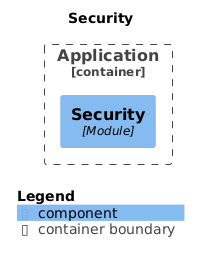
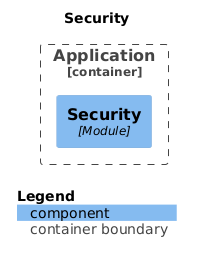
docs: readme updated after fix

diff --git a/docs/moduleDocs.html b/docs/moduleDocs.html
@@ -93,13 +93,13 @@
 <!-- Application Section -->
 <h2>Application</h2>
 <div class="diagram">
-    <img src="images/diagrams/diagram_1.png" alt="Диаграмма Application">
+    <img src="images/diagrams/components.png" alt="Диаграмма Application">
 </div>
 
 <!-- DB Section -->
 <h2>DB</h2>
 <div class="diagram">
-    <img src="images/diagrams/DB_diagram.png" alt="Диаграмма DB">
+    <img src="images/diagrams/module-DB.png" alt="Диаграмма DB">
 </div>
 <table>
     <tr><th>Base package</th><td><span class="package">spbstu.mcs.telegramBot.DB</span></td></tr>
@@ -125,62 +125,16 @@
 <!-- Config Section -->
 <h2>Config</h2>
 <div class="diagram">
-    <img src="images/diagrams/config_diagram.png" alt="Диаграмма Config">
+    <img src="images/diagrams/module-config.png" alt="Диаграмма Config">
 </div>
 <table>
     <tr><th>Base package</th><td><span class="package">spbstu.mcs.telegramBot.config</span></td></tr>
     <tr>
         <th>Spring components</th>
         <td>
-            <div class="component">s.m.t.c.AppConfigurations</div>
-            <div class="component">s.m.t.c.ApiConfiguration</div>
-            <div class="component">s.m.t.c.KafkaConfiguration</div>
-            <div class="component">s.m.t.c.SecurityConfiguration</div>
-            <div class="component">s.m.t.c.TelegramConfiguration</div>
-            <div class="component">s.m.t.c.WebConfiguration</div>
-            <div class="component">s.m.t.c.ServerProperties</div>
             <div class="component">s.m.t.c.LoggingConfig</div>
             <div class="component">s.m.t.c.SchedulingConfig</div>
             <div class="component">s.m.t.c.VaultConfig</div>
-        </td>
-    </tr>
-    <tr>
-        <th>Bean references</th>
-        <td class="bean-ref">
-            <div class="component">s.m.t.s.AdminAuthMiddleware (in Service)</div>
-            <div class="component">s.m.t.s.EncryptionService (in Security)</div>
-            <div class="component">s.m.t.D.services.UserService (in DB)</div>
-            <div class="component">s.m.t.D.services.AdminService (in DB)</div>
-        </td>
-    </tr>
-    <tr>
-        <th>Events listened to</th>
-        <td>
-            <div class="component">o.s.c.e.ContextStoppedEvent</div>
-        </td>
-    </tr>
-</table>
-
-<!-- Controller Section -->
-<h2>Controller</h2>
-<div class="diagram">
-    <img src="images/diagrams/controller_diagram.png" alt="Диаграмма Controller">
-</div>
-<table>
-    <tr><th>Base package</th><td><span class="package">spbstu.mcs.telegramBot.controller</span></td></tr>
-    <tr>
-        <th>Spring components</th>
-        <td>
-            <div class="component">s.m.t.c.AdminController</div>
-        </td>
-    </tr>
-    <tr>
-        <th>Bean references</th>
-        <td class="bean-ref">
-            <div class="component">s.m.t.D.services.AdminService (in DB)</div>
-            <div class="component">s.m.t.D.services.UserService (in DB)</div>
-            <div class="component">s.m.t.s.AdminAuthMiddleware (in Service)</div>
-            <div class="component">s.m.t.D.services.ApiKeyService (in DB)</div>
         </td>
     </tr>
 </table>
@@ -188,7 +142,7 @@
 <!-- CryptoApi Section -->
 <h2>CryptoApi</h2>
 <div class="diagram">
-    <img src="images/diagrams/cryptoApi_diagram.png" alt="Диаграмма CryptoApi">
+    <img src="images/diagrams/module-cryptoApi.png" alt="Диаграмма CryptoApi">
 </div>
 <table>
     <tr><th>Base package</th><td><span class="package">spbstu.mcs.telegramBot.cryptoApi</span></td></tr>
@@ -205,6 +159,7 @@
     <tr>
         <th>Bean references</th>
         <td class="bean-ref">
+            <div class="component">s.m.t.D.services.UserService (in DB)</div>
             <div class="component">s.m.t.D.services.PortfolioService (in DB)</div>
         </td>
     </tr>
@@ -213,7 +168,7 @@
 <!-- Model Section -->
 <h2>Model</h2>
 <div class="diagram">
-    <img src="images/diagrams/model_diagram.png" alt="Диаграмма Model">
+    <img src="images/diagrams/module-model.png" alt="Диаграмма Model">
 </div>
 <table>
     <tr><th>Base package</th><td><span class="package">spbstu.mcs.telegramBot.model</span></td></tr>
@@ -222,7 +177,7 @@
 <!-- Security Section -->
 <h2>Security</h2>
 <div class="diagram">
-    <img src="images/diagrams/security_diagram.png" alt="Диаграмма Security">
+    <img src="images/diagrams/module-security.png" alt="Диаграмма Security">
 </div>
 <table>
     <tr><th>Base package</th><td><span class="package">spbstu.mcs.telegramBot.security</span></td></tr>
@@ -238,16 +193,46 @@
 <!-- Server Section -->
 <h2>Server</h2>
 <div class="diagram">
-    <img src="images/diagrams/server_diagram.png" alt="Диаграмма Server">
+    <img src="images/diagrams/module-server.png" alt="Диаграмма Server">
 </div>
 <table>
     <tr><th>Base package</th><td><span class="package">spbstu.mcs.telegramBot.server</span></td></tr>
+    <tr>
+        <th>Spring components</th>
+        <td>
+            <div class="component">s.m.t.s.AppConfigurations</div>
+            <div class="component">s.m.t.s.ApiConfiguration</div>
+            <div class="component">s.m.t.s.KafkaConfiguration</div>
+            <div class="component">s.m.t.s.SecurityConfiguration</div>
+            <div class="component">s.m.t.s.TelegramConfiguration</div>
+            <div class="component">s.m.t.s.WebConfiguration</div>
+            <div class="component">s.m.t.s.ServerProperties</div>
+            <div class="component">s.m.t.s.ServerApp</div>
+        </td>
+    </tr>
+    <tr>
+        <th>Bean references</th>
+        <td class="bean-ref">
+            <div class="component">s.m.t.c.VaultConfig (in Config)</div>
+            <div class="component">s.m.t.D.services.AdminService (in DB)</div>
+            <div class="component">s.m.t.D.services.UserService (in DB)</div>
+            <div class="component">s.m.t.s.EncryptionService (in Security)</div>
+            <div class="component">s.m.t.D.services.ApiKeyService (in DB)</div>
+            <div class="component">s.m.t.c.PriceFetcher (in CryptoApi)</div>
+        </td>
+    </tr>
+    <tr>
+        <th>Events listened to</th>
+        <td>
+            <div class="component">o.s.c.e.ContextStoppedEvent</div>
+        </td>
+    </tr>
 </table>
 
 <!-- Service Section -->
 <h2>Service</h2>
 <div class="diagram">
-    <img src="images/diagrams/service_diagram.png" alt="Диаграмма Service">
+    <img src="images/diagrams/module-service.png" alt="Диаграмма Service">
 </div>
 <table>
     <tr><th>Base package</th><td><span class="package">spbstu.mcs.telegramBot.service</span></td></tr>
@@ -259,21 +244,16 @@
             <div class="component">s.m.t.s.BotCommand</div>
             <div class="component">s.m.t.s.KafkaConsumerService</div>
             <div class="component">s.m.t.s.KafkaProducerService</div>
-            <div class="component">s.m.t.s.PortfolioManagement</div>
             <div class="component">s.m.t.s.TelegramBotService</div>
-
-            <div class="service">Others</div>
-            <div class="component">s.m.t.s.AdminAuthMiddleware</div>
         </td>
     </tr>
     <tr>
         <th>Bean references</th>
         <td class="bean-ref">
-            <div class="component">s.m.t.D.services.AdminService (in DB)</div>
-            <div class="component">s.m.t.D.services.UserService (in DB)</div>
             <div class="component">s.m.t.c.CurrencyConverter (in CryptoApi)</div>
             <div class="component">s.m.t.c.PriceFetcher (in CryptoApi)</div>
             <div class="component">s.m.t.D.services.NotificationService (in DB)</div>
+            <div class="component">s.m.t.D.services.UserService (in DB)</div>
             <div class="component">s.m.t.c.CryptoInformation (in CryptoApi)</div>
             <div class="component">s.m.t.D.services.PortfolioService (in DB)</div>
             <div class="component">s.m.t.c.CryptoPortfolioManager (in CryptoApi)</div>
@@ -284,7 +264,7 @@
 <!-- Util Section -->
 <h2>Util</h2>
 <div class="diagram">
-    <img src="images/diagrams/util_diagram.png" alt="Диаграмма Util">
+    <img src="images/diagrams/module-util.png" alt="Диаграмма Util">
 </div>
 <table>
     <tr><th>Base package</th><td><span class="package">spbstu.mcs.telegramBot.util</span></td></tr>
